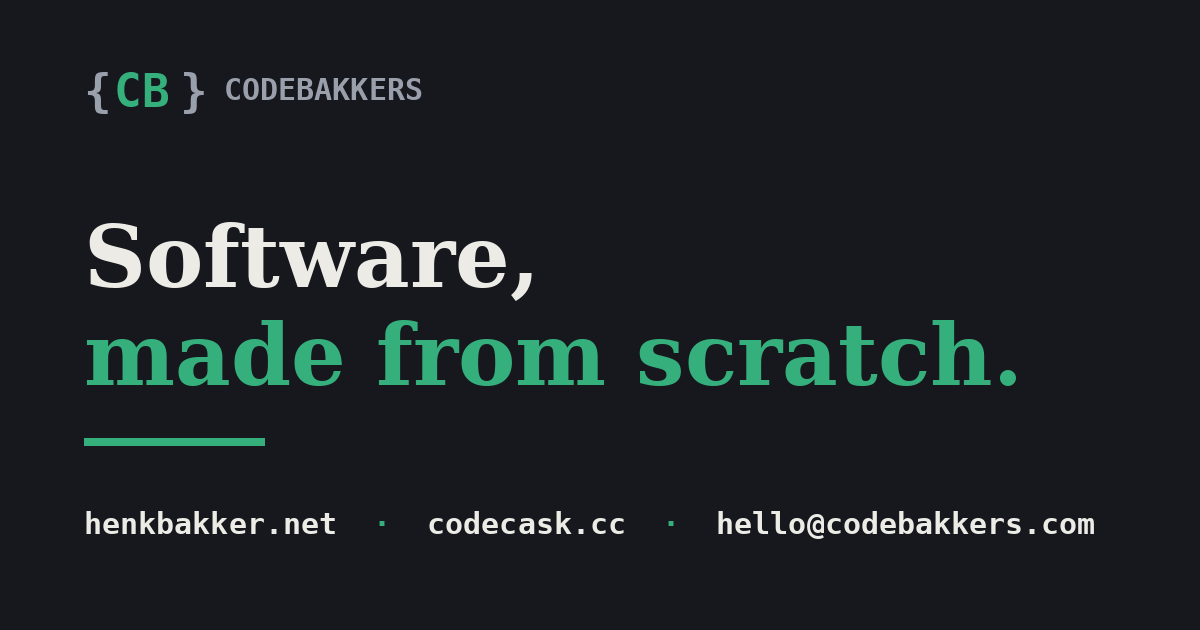
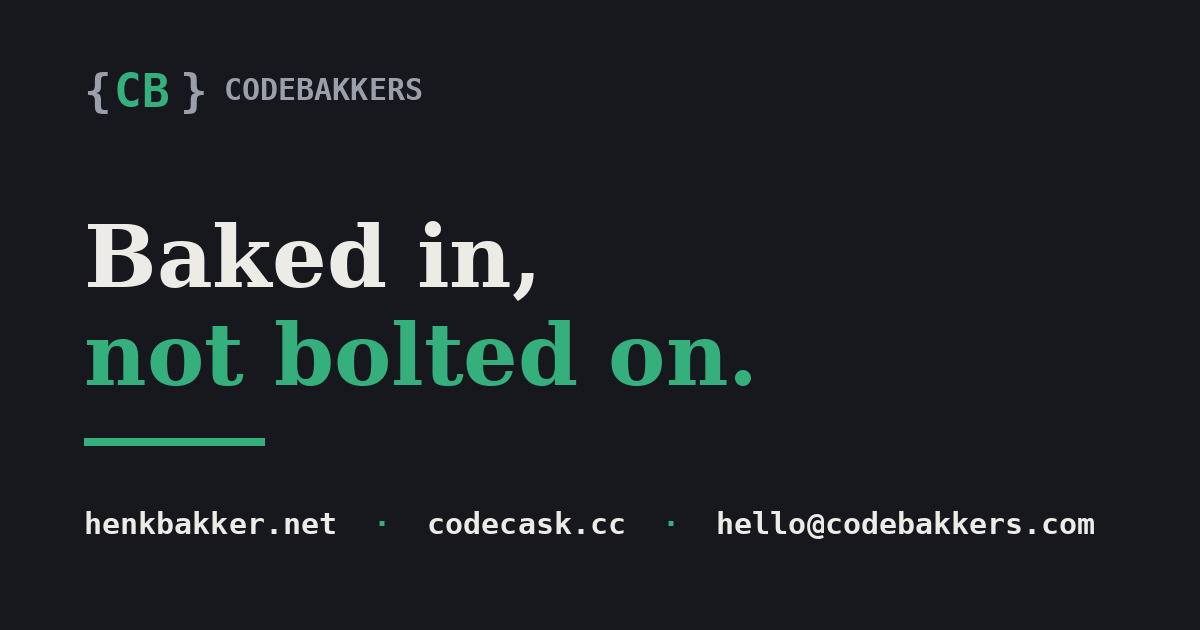
content: new CodeBakkers tagline — 'Baked in, not bolted on.'
Applied to hub hero + page title, site description/tagline consts, the
CodeBakkers card on henkbakker /about, and the OG share image.

Changed region(s): [[0.0925, 0.4825, 0.8633, 0.6333], [0.0617, 0.3317, 0.4317, 0.4825]]

diff --git a/apps/codebakkers/src/consts.ts b/apps/codebakkers/src/consts.ts
@@ -1,8 +1,8 @@
 export const SITE = {
   title: "CodeBakkers",
   description:
-    "CodeBakkers — software, made from scratch. The company behind Henk Bakker's engineering work. Find the person at henkbakker.net, the consultancy at codecask.cc.",
-  tagline: "software, made from scratch",
+    "CodeBakkers — baked in, not bolted on. The company behind Henk Bakker's engineering work. Find the person at henkbakker.net, the consultancy at codecask.cc.",
+  tagline: "baked in, not bolted on",
   url: "https://codebakkers.com",
   nav: [{ href: "/company", label: "Company" }],
   social: [{ label: "Email", href: "mailto:hello@codebakkers.com" }],
